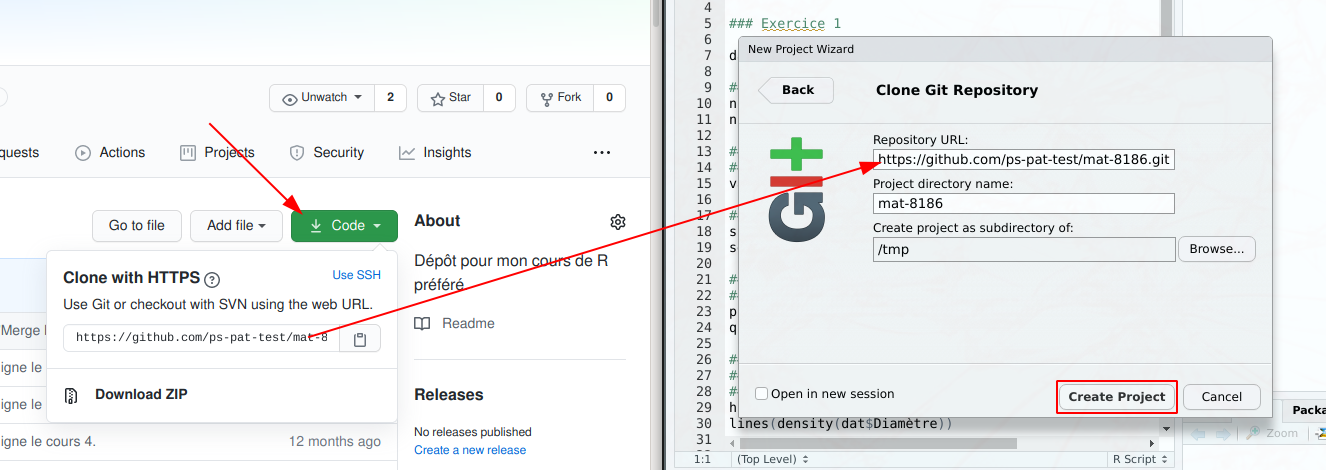
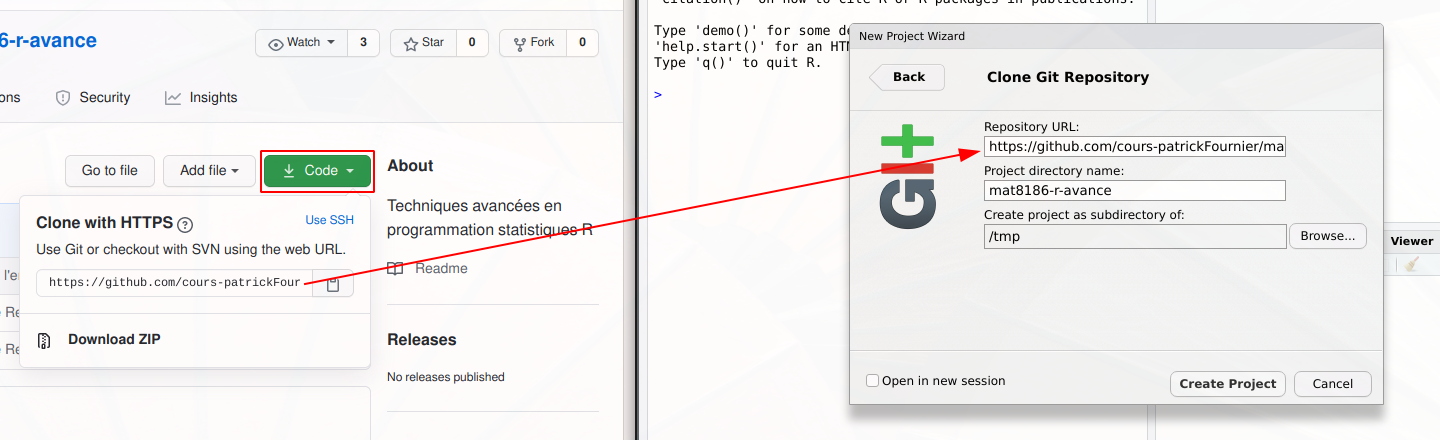
Readme, prise 2.

diff --git a/Readme.md b/Readme.md
@@ -120,7 +120,7 @@ Une fois cela fait, donnez-moi accès à votre dépôt en m'ajoutant comme
 collaborateur.
 
 1. Cliquez sur le bouton `Settings` au coin supérieur droit de la page
-de *votre fork*.
+de *votre dépôt*.
 
 ![Screenshot, settings](readme_pictures/private_settings.png)
 
@@ -147,9 +147,10 @@ se fait aisément à l'aide de RStudio.
 
 ![Screenshot, new project git](readme_pictures/local_repo2.png)
 
-5. Dans l'écran suivant, inscrivez l'URL de *votre fork*. Celui-ci
-   vous est donné lorsque vous cliquez sur le bouton `Clone or
-   download` au coin supérieur droit de la page de votre fork.
+5. Dans l'écran suivant, inscrivez l'URL de *mon dépôt*:
+   https://github.com/cours-patrickFournier/mat8186-r-avance.git. Celui-ci
+   vous est donné lorsque vous cliquez sur le bouton `Code` au coin
+   supérieur droit de la page de mon dépôt.
 
 ![Screenshot, new project git](readme_pictures/local_repo3.png)
 
@@ -157,20 +158,15 @@ se fait aisément à l'aide de RStudio.
 
 ### Ajustement des remotes.
 Félicitation, vous disposez maintenant d'une copie locale de votre
-fork! Toutefois, vous n'êtes pas tout à fait au bout de vos peines; il
-reste un problème à régler. À ce stade, vous êtes capable d'envoyer
-vos changements locaux vers la copie de votre fork hébergée sur GitHub
-(flèche 2 sur le schéma du début de la section). De la même manière,
-vous êtes en mesure d'intégrer les modifications apportées à la copie
-distante de votre fork dans votre copie locale. Toutefois, comme vous
-êtes le seul utilisateur capable d'apporter ce genre de modification,
-cela ne vous est pas utile. Ce qu'il vous faut, c'est être capable
-*d'intégrer mes changements à votre dépôt* (flèche 1 sur le
-schéma). Attaquons-nous à ce problème.
+dépôt! Toutefois, vous n'êtes pas tout à fait au bout de vos peines;
+il reste un problème à régler. À ce stade, vous êtes capable
+d'intégrer les changements que j'apporte à mon dépôt au
+votre. Toutefois, il vous reste à configurer git de manière à ce que
+vos modifications locales soient envoyées à votre dépôt. Pour ce faire,
 
 1. Assurez-vous que RStudio soit bien ouvert à votre projet (coin
    supérieur droit) et que vous travailliez bien sur la branche
-   «automne2020».
+   «automne2020». Cliquez sur le petit icône rose.
 
 ![Screenshot, RStudio current project](readme_pictures/remotes1.png)
 
@@ -178,19 +174,17 @@ schéma). Attaquons-nous à ce problème.
    sur le petit icône en forme d'engrenage dans la boîte d'outil puis
    sur `Shell...`.
 
-![Screenshot, RStudio git open shell](readme_pictures/remotes2.png)
+![Screenshot, RStudio git open shell](readme_pictures/remotes3.png)
 
-3. Dans la fenêtre qui vient de s'ouvrir, tapez les 5 commandes
-   suivantes (à chaque fois suivi de `enter`):
+4. Dans la fenêtre qui vient de s'ouvrir, tapez la commande suivante
+   (suivi de `enter`):
 
 ``` Shell
-git remote add upstream https://github.com/cours-patrickFournier/mat8186-r-avance.git
-git fetch upstream automne2020
-git branch --set-upstream-to=upstream/automne2020
-git config remote.pushdefault origin
-git config push.default current
+git config remote.origin.pushurl <URL de votre dépôt>
 ```
-Félicitation, vous êtes maintenant prêt à suivre le cours!
+Vous pouvez trouver l'URL de votre dépôt en cliquant sur le bouton «Code»
+situé au haut de la page de votre dépôt. Félicitation, vous êtes
+maintenant prêt à suivre le cours!
 
 ### Triangular workflow.
 Retournez voir le schéma du début de la section. Remarquez que vous
